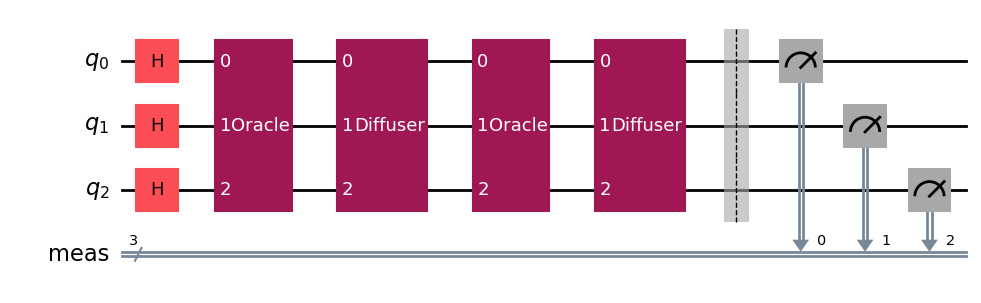
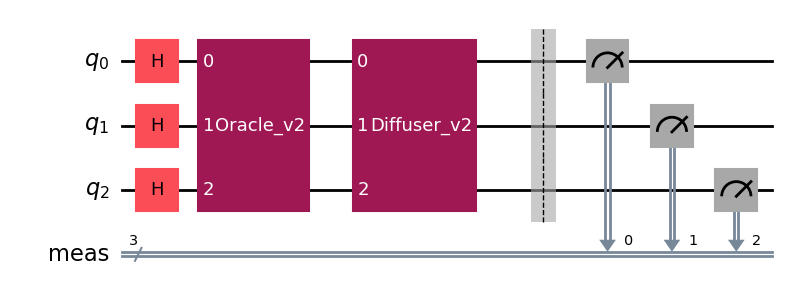
refactor: organize into src/ with oracles.py, diffuser.py, and type hints. In Addition, added new version of oracle and diffuser
- Split grover_core.py into oracles.py and diffuser.py
- Added oracle_v2 and diffuser_v2. These are using ZGate().control() instead of MCX-based MCZ
- Add type hints to all function parameters and return values

Changed region(s): [[0.0609, 0.0891, 0.9746, 0.8317], [0.0305, 0.7723, 0.1827, 0.8614], [0.9746, 0.8317, 1.0, 0.8614]]

diff --git a/src/grover_core.py b/src/grover_core.py
@@ -1,70 +1,14 @@
 import math
 from qiskit import QuantumCircuit
+from src.oracles import build_oracle_v2 as build_oracle
+from src.diffuser import build_diffuser_v2 as build_diffuser
 
 
-def build_oracle(n_qubits, target_state):
-    """Phase oracle that tags |target_state> with a negative phase.
-
-    Parameters
-    ----------
-    n_qubits : int
-        Number of qubits.
-    target_state : str
-        Bitstring marking the target state, e.g. '101'.
-
-    Returns
-    -------
-    Gate
-        The oracle gate.
-    """
-    oracle = QuantumCircuit(n_qubits, name='Oracle')
-
-    for i, bit in enumerate(target_state):
-        if bit == '0':
-            oracle.x(i)
-
-    oracle.h(n_qubits - 1)
-    oracle.mcx(list(range(n_qubits - 1)), n_qubits - 1)
-    oracle.h(n_qubits - 1)
-
-    for i, bit in enumerate(target_state):
-        if bit == '0':
-            oracle.x(i)
-
-    return oracle.to_gate()
-
-
-def build_diffuser(n_qubits):
-    """Grover diffusion operator (inversion about the mean).
-
-    H^n (2|0><0| - I) H^n implemented via X + MCZ + X.
-
-    Parameters
-    ----------
-    n_qubits : int
-        Number of qubits.
-
-    Returns
-    -------
-    Gate
-        The diffuser gate.
-    """
-    diffuser = QuantumCircuit(n_qubits, name='Diffuser')
-
-    diffuser.h(range(n_qubits))
-    diffuser.x(range(n_qubits))
-
-    diffuser.h(n_qubits - 1)
-    diffuser.mcx(list(range(n_qubits - 1)), n_qubits - 1)
-    diffuser.h(n_qubits - 1)
-
-    diffuser.x(range(n_qubits))
-    diffuser.h(range(n_qubits))
-
-    return diffuser.to_gate()
-
-
-def grover_search(n_qubits, target_state):
+def grover_search(
+    n_qubits: int,
+    target_state: str,
+    n_iterations: int | None = None,
+) -> QuantumCircuit:
     """Build the complete Grover search circuit (without measurements).
 
     Parameters
@@ -73,6 +17,9 @@ def grover_search(n_qubits, target_state):
         Number of qubits.
     target_state : str
         Bitstring to search for, e.g. '101'.
+    n_iterations : int or None
+        Number of Grover iterations. If None, uses the optimal
+        theoretical value: floor(π/4 * sqrt(2^n)).
 
     Returns
     -------
@@ -83,13 +30,14 @@ def grover_search(n_qubits, target_state):
 
     qc.h(range(n_qubits))
 
-    N = 2 ** n_qubits
-    n_iterations = int(math.pi / 4 * math.sqrt(N))
+    if n_iterations is None:
+        N = 2 ** n_qubits
+        n_iterations = int(math.pi / 4 * math.sqrt(N))
 
     oracle = build_oracle(n_qubits, target_state)
     diffuser = build_diffuser(n_qubits)
 
-    for _ in range(n_iterations):
+    for _ in range(n_iterations - 1):
         qc.append(oracle, range(n_qubits))
         qc.append(diffuser, range(n_qubits))
 

diff --git a/src/oracles.py b/src/oracles.py
@@ -1,0 +1,57 @@
+"""Oracle implementations for Grover's algorithm."""
+from collections.abc import Callable
+
+from qiskit import QuantumCircuit
+from qiskit.circuit.library import ZGate
+from qiskit.circuit import Gate
+
+
+# ───────────────────────────
+#  Internal helpers  (private)
+# ───────────────────────────
+
+def _flip_zeros(qc: QuantumCircuit, target_state: str) -> None:
+    """Apply X on qubits that are 0 in target_state."""
+    for i, bit in enumerate(target_state):
+        if bit == '0':
+            qc.x(i)
+
+
+def _apply_mcz_v1(qc: QuantumCircuit, n_qubits: int) -> None:
+    """Multi-controlled Z via H + MCX + H"""
+    qc.h(n_qubits - 1)
+    qc.mcx(list(range(n_qubits - 1)), n_qubits - 1)
+    qc.h(n_qubits - 1)
+
+
+def _apply_mcz_v2(qc: QuantumCircuit, n_qubits: int) -> None:
+    """Multi-controlled Z via ZGate().control()"""
+    qc.append(ZGate().control(n_qubits - 1), range(n_qubits))
+
+
+def _build_oracle(
+    n_qubits: int,
+    target_state: str,
+    mcz_fn: Callable[[QuantumCircuit, int], None],
+    name: str,
+) -> Gate:
+    """Shared oracle builder: flip zeros → MCZ → flip zeros"""
+    oracle = QuantumCircuit(n_qubits, name=name)
+    _flip_zeros(oracle, target_state)
+    mcz_fn(oracle, n_qubits)
+    _flip_zeros(oracle, target_state)
+    return oracle.to_gate()
+
+
+# ───────────────────────────
+#  Public API  (import these)
+# ───────────────────────────
+
+def build_oracle_v1(n_qubits: int, target_state: str) -> Gate:
+    """Oracle using hand-rolled MCZ (H + MCX + H)."""
+    return _build_oracle(n_qubits, target_state, _apply_mcz_v1, 'Oracle_v1')
+
+
+def build_oracle_v2(n_qubits: int, target_state: str) -> Gate:
+    """Oracle using direct ZGate().control()."""
+    return _build_oracle(n_qubits, target_state, _apply_mcz_v2, 'Oracle_v2')

diff --git a/src/diffuser.py b/src/diffuser.py
@@ -1,0 +1,51 @@
+"""Diffusion operator for Grover's algorithm (inversion about the mean)."""
+from collections.abc import Callable
+
+from qiskit import QuantumCircuit
+from qiskit.circuit import Gate
+from qiskit.circuit.library import ZGate
+
+
+# ───────────────────────────
+#  Internal helpers  (private)
+# ───────────────────────────
+
+def _apply_mcz_v1(qc: QuantumCircuit, n_qubits: int) -> None:
+    """MCZ via H + MCX + H."""
+    qc.h(n_qubits - 1)
+    qc.mcx(list(range(n_qubits - 1)), n_qubits - 1)
+    qc.h(n_qubits - 1)
+
+
+def _apply_mcz_v2(qc: QuantumCircuit, n_qubits: int) -> None:
+    """MCZ via ZGate().control()."""
+    qc.append(ZGate().control(n_qubits - 1), range(n_qubits))
+
+
+def _build_diffuser(n_qubits: int, mcz_fn: Callable[[QuantumCircuit, int], None], name: str) -> Gate:
+    """Shared diffuser builder: H → X → MCZ → X → H."""
+    diffuser = QuantumCircuit(n_qubits, name=name)
+
+    diffuser.h(range(n_qubits))
+    diffuser.x(range(n_qubits))
+
+    mcz_fn(diffuser, n_qubits)
+
+    diffuser.x(range(n_qubits))
+    diffuser.h(range(n_qubits))
+
+    return diffuser.to_gate()
+
+
+# ───────────────────────────
+#  Public API  (import these)
+# ───────────────────────────
+
+def build_diffuser_v1(n_qubits: int) -> Gate:
+    """Diffuser using hand-rolled MCZ (H + MCX + H)."""
+    return _build_diffuser(n_qubits, _apply_mcz_v1, 'Diffuser_v1')
+
+
+def build_diffuser_v2(n_qubits: int) -> Gate:
+    """Diffuser using direct ZGate().control()."""
+    return _build_diffuser(n_qubits, _apply_mcz_v2, 'Diffuser_v2')

diff --git a/run_ibm.py b/run_ibm.py
@@ -1,4 +1,5 @@
 """Run Grover's algorithm on a real IBM Quantum backend."""
+import os
 import matplotlib
 matplotlib.use('Agg')
 import matplotlib.pyplot as plt
@@ -16,8 +17,7 @@ except ImportError:
     raise
 
 
-def main():
-    import os
+def main() -> None:
     os.makedirs(OUTPUT_DIR, exist_ok=True)
 
     if not IBM_TOKEN:
@@ -49,7 +49,7 @@ def main():
     print(f"Job ID: {job.job_id()}")
 
     result = job.result()
-    counts = result[0].data.meas.get_counts()
+    counts: dict[str, int] = result[0].data.meas.get_counts()
 
     print(f"Target state: |{TARGET_STATE}>")
     print(f"Measured counts: {counts}")

diff --git a/run_simulation.py b/run_simulation.py
@@ -1,4 +1,5 @@
 """Run Grover's algorithm locally using StatevectorSampler."""
+import os
 import matplotlib
 matplotlib.use('Agg')
 import matplotlib.pyplot as plt
@@ -10,8 +11,7 @@ from src.config import N_QUBITS, TARGET_STATE, SHOTS
 OUTPUT_DIR = 'output'
 
 
-def main():
-    import os
+def main() -> None:
     os.makedirs(OUTPUT_DIR, exist_ok=True)
 
     qc = grover_search(N_QUBITS, TARGET_STATE)
@@ -24,7 +24,7 @@ def main():
 
     sampler = StatevectorSampler()
     result = sampler.run([qc], shots=SHOTS).result()
-    counts = result[0].data.meas.get_counts()
+    counts: dict[str, int] = result[0].data.meas.get_counts()
 
     print(f"Target state: |{TARGET_STATE}>")
     print(f"Measured counts: {counts}")